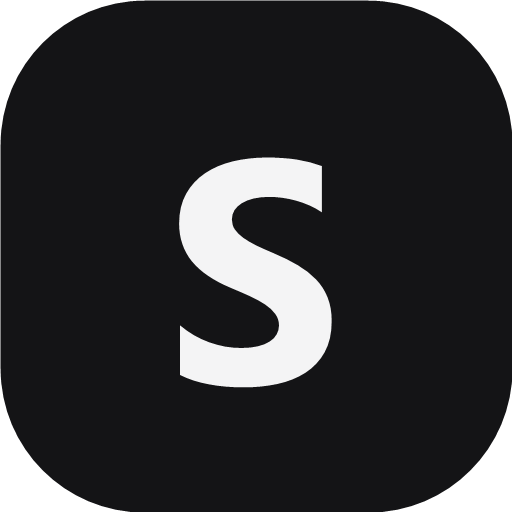
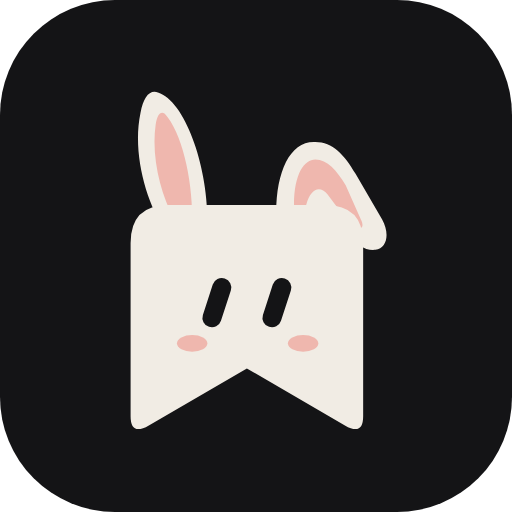
feat(ui): 应用图标换成兔耳书签
- favicon、主屏幕图标（含 iOS 与安卓自适应）换成深底白兔的兔耳书签
- 顶栏和平板侧栏标志改为简化描线版，线宽与导航图标一致；文字隐藏时胶囊回到正圆，图标不再偏左
- 登录 / 兑换码页用实心版，深色白兔带腮红、浅色墨兔
- 分享海报左下角的标志同步更换；图形数据集中在 src/design/brand.ts
- design/icons 存放三版源文件（带底色与透明底）和顶栏描线版

diff --git a/src/app/BrandMark.tsx b/src/app/BrandMark.tsx
@@ -1,6 +1,67 @@
+import { useId } from 'react'
+import { BRAND_BLUSH, BRAND_BLUSH_R, BRAND_BODY, BRAND_EARS, BRAND_EYE, BRAND_EYES, BRAND_INNER, BRAND_PINK } from '@/design/brand'
 import { cn } from '@/lib/cn'
 
-/** 站点标志，顶栏和平板侧栏共用；目前是占位的字母圆标，换图标只改这里 */
+/**
+ * 实心的兔耳书签，用在登录页这类大尺寸处。
+ * 用强调色：深色模式是白兔带腮红，浅色模式是墨兔（对应设计稿 02 / 04）；眼睛挖空透出底色。
+ */
+export function BrandBunny({ className }: { className?: string }) {
+  // 遮罩 id 要唯一，避免和页面上其他实例冲突
+  const mask = `brand-eyes-${useId()}`
+  return (
+    <svg viewBox="26 5 484 484" aria-hidden="true" className={cn('shrink-0 text-solid', className)}>
+      <mask id={mask} maskUnits="userSpaceOnUse" x="0" y="0" width="512" height="512">
+        <rect width="512" height="512" fill="#fff" />
+        {BRAND_EYES.map((e) => (
+          <rect
+            key={e.cx}
+            x={e.cx - BRAND_EYE.w / 2}
+            y={e.cy - BRAND_EYE.h / 2}
+            width={BRAND_EYE.w}
+            height={BRAND_EYE.h}
+            rx={BRAND_EYE.w / 2}
+            transform={`rotate(${BRAND_EYE.tilt} ${e.cx} ${e.cy})`}
+            fill="#000"
+          />
+        ))}
+      </mask>
+      {/* 先耳朵、再耳内粉色，最后身体盖住耳根 */}
+      <path d={BRAND_EARS} fill="currentColor" />
+      <path d={BRAND_INNER} fill={BRAND_PINK} />
+      <path d={BRAND_BODY} fill="currentColor" mask={`url(#${mask})`} />
+      <g fill={BRAND_PINK} className="hidden dark:inline">
+        {BRAND_BLUSH.map((b) => (
+          <ellipse key={b.cx} cx={b.cx} cy={b.cy} rx={BRAND_BLUSH_R.x} ry={BRAND_BLUSH_R.y} />
+        ))}
+      </g>
+    </svg>
+  )
+}
+
+/**
+ * 站点标志，顶栏和平板侧栏共用：兔耳书签的简化描线版，线宽和导航里的其他图标一致，颜色跟随文字。
+ * 图形在 24 格里按外框居中；完整的彩色图标见 public/favicon.svg 和 design/icons。
+ */
 export function BrandMark({ className }: { className?: string }) {
-  return <span className={cn('grid size-10 place-items-center rounded-full bg-solid text-on-solid', className)}>S</span>
+  return (
+    <span className={cn('grid size-10 shrink-0 place-items-center', className)}>
+      <svg
+        viewBox="0 0 24 24"
+        aria-hidden="true"
+        className="size-7"
+        fill="none"
+        stroke="currentColor"
+        strokeWidth={1.8}
+        strokeLinecap="round"
+        strokeLinejoin="round"
+      >
+        {/* 竖耳、垂耳、书签身体、两只斜眼 */}
+        <path d="M7.5 9.1C6.6 6.6 6.3 4 7.2 3.3C8.4 2.5 9.6 5 9.8 9.1" />
+        <path d="M12.6 9.1C12.8 6.3 14.2 4.7 15.8 4.9C17.4 5.1 18.9 7.2 19 8.6C19.1 9.6 18.2 9.9 17 9.4" />
+        <path d="M5 11.1a2 2 0 0 1 2-2h8a2 2 0 0 1 2 2V21l-6-3.4L5 21Z" />
+        <path d="M9.4 13 8.8 15.1M13.4 13 12.8 15.1" />
+      </svg>
+    </span>
+  )
 }

diff --git a/src/features/gallery/posterDraw.ts b/src/features/gallery/posterDraw.ts
@@ -1,4 +1,5 @@
 import { refreshAccessToken, tokenExpiring, useAuth } from '@/api/auth'
+import { BRAND_BLUSH, BRAND_BLUSH_R, BRAND_BODY, BRAND_CENTER, BRAND_DARK, BRAND_EARS, BRAND_EYE, BRAND_EYES, BRAND_INNER, BRAND_LIGHT, BRAND_PINK } from '@/design/brand'
 import { NEUTRAL, coverColor, rgbCss } from '@/lib/coverColor'
 import { count } from '@/lib/format'
 import type { Rgb } from '@/lib/palette'
@@ -96,24 +97,56 @@ function cover(ctx: Ctx, imgs: Images, c: PosterCover, x: number, y: number, w: 
   ctx.restore()
 }
 
-/** 左下角（或居中）的应用标志：圆角方块里一个 S，和 favicon 一致 */
+/** 左下角（或居中）的应用标志：圆角方块里的兔耳书签，和 favicon 一致 */
 function brand(ctx: Ctx, x: number, y: number, center = false) {
   setFont(ctx, 700, 28)
   const total = 52 + 16 + ctx.measureText('Sukimi').width
   const sx = center ? x - total / 2 : x
   ctx.beginPath()
   ctx.roundRect(sx, y, 52, 52, 15)
-  ctx.fillStyle = '#141416'
+  ctx.fillStyle = BRAND_DARK
   ctx.fill()
   ctx.beginPath()
   ctx.roundRect(sx + 0.5, y + 0.5, 51, 51, 14.5)
   ctx.strokeStyle = ink(0.14)
   ctx.lineWidth = 1
   ctx.stroke()
-  setFont(ctx, 700, 30)
-  text(ctx, 'S', sx + 26, y + 27, INK, 'center', 'middle')
+  brandGlyph(ctx, sx, y, 52)
   setFont(ctx, 700, 28)
   text(ctx, 'Sukimi', sx + 68, y + 27, INK, 'left', 'middle')
+}
+
+/** 在 size 见方的格子里画兔耳书签（与 public/favicon.svg 同样的位置和缩放） */
+function brandGlyph(ctx: Ctx, x: number, y: number, size: number) {
+  ctx.save()
+  ctx.translate(x, y)
+  ctx.scale(size / 512, size / 512)
+  ctx.translate(256, 262)
+  ctx.scale(0.76, 0.76)
+  ctx.translate(-BRAND_CENTER.x, -BRAND_CENTER.y)
+  ctx.fillStyle = BRAND_LIGHT
+  ctx.fill(new Path2D(BRAND_EARS))
+  ctx.fillStyle = BRAND_PINK
+  ctx.fill(new Path2D(BRAND_INNER))
+  ctx.fillStyle = BRAND_LIGHT
+  ctx.fill(new Path2D(BRAND_BODY))
+  ctx.fillStyle = BRAND_DARK
+  for (const e of BRAND_EYES) {
+    ctx.save()
+    ctx.translate(e.cx, e.cy)
+    ctx.rotate(BRAND_EYE.tilt * RAD)
+    ctx.beginPath()
+    ctx.roundRect(-BRAND_EYE.w / 2, -BRAND_EYE.h / 2, BRAND_EYE.w, BRAND_EYE.h, BRAND_EYE.w / 2)
+    ctx.fill()
+    ctx.restore()
+  }
+  ctx.fillStyle = BRAND_PINK
+  for (const b of BRAND_BLUSH) {
+    ctx.beginPath()
+    ctx.ellipse(b.cx, b.cy, BRAND_BLUSH_R.x, BRAND_BLUSH_R.y, 0, 0, Math.PI * 2)
+    ctx.fill()
+  }
+  ctx.restore()
 }
 
 /** 从圆心往外的一根圆头竖条：deg 从正上方顺时针，r0 是内端半径 */

diff --git a/src/design/brand.ts b/src/design/brand.ts
@@ -1,0 +1,28 @@
+/*
+ * 应用标志「兔耳书签」的图形数据（512 坐标），登录页的实心标志和分享海报用；顶栏是另画的简化描线版（都在 app/BrandMark.tsx）。
+ * public/ 里的 favicon 和 PNG 图标、design/icons 里的源文件是同一套图形；改形状时一起重新导出。
+ */
+
+export const BRAND_EARS =
+  'M149 207C123 168 105 103 116 51c4-21 12-31 23-27 36 11 67 100 65 174Zm146-13c-3-59 15-105 49-105 24-1 40 16 55 42l35 60c10 18 7 38-9 40-24 3-48-31-70-59-8 14-10 31-9 46Z'
+export const BRAND_BODY = 'M103 222q0-50 50-50h206q50 0 50 50v228q0 26-24 12l-129-75-129 75q-24 14-24-12Z'
+/** 耳朵内侧的粉色 */
+export const BRAND_INNER =
+  'M160 190C142 156 130 108 136 66C138 54 142 48 148 52C170 76 184 136 184 188ZM318 172C318 130 332 112 346 112C362 112 374 126 386 146L406 191C410 199 408 204 403 202C392 198 378 180 362 158C352 146 340 150 334 172Z'
+/** 两只胶囊眼的中心；眼睛 25 × 67，向右斜 18° */
+export const BRAND_EYES = [
+  { cx: 216.5, cy: 300.5 },
+  { cx: 295.5, cy: 300.5 },
+] as const
+export const BRAND_EYE = { w: 25, h: 67, tilt: 18 }
+export const BRAND_BLUSH = [
+  { cx: 184, cy: 354 },
+  { cx: 330, cy: 354 },
+] as const
+export const BRAND_BLUSH_R = { x: 20, y: 11 }
+/** 图形本身的中心，放进方块时以它对齐 */
+export const BRAND_CENTER = { x: 268, y: 247 }
+
+export const BRAND_LIGHT = '#F1ECE4'
+export const BRAND_DARK = '#141416'
+export const BRAND_PINK = '#EFB7AE'

diff --git a/src/app/TopNav.tsx b/src/app/TopNav.tsx
@@ -64,11 +64,12 @@ export function TopNav() {
             <ChevronLeft className={cn('size-6', leadIn)} strokeWidth={1.8} />
           </Glass>
         ) : (
-          // 顶栏本身透明，标志也放进玻璃胶囊里，滚到内容上方时才看得清；平板的标志在左侧导航栏
+          // 顶栏本身透明，标志也放进玻璃胶囊里，滚到内容上方时才看得清；平板的标志在左侧导航栏。
+          // 右侧留白放在文字上：文字隐藏的宽度下胶囊回到正圆，图标不偏左
           <NavLink to="/" aria-label="Sukimi 首页" className="topnav-brand rounded-full text-text no-underline justify-self-start">
-            <Glass as="span" data-vt-glass="topnav-brand" className="flex items-center gap-2.5 rounded-full p-[5px] text-[17px] font-bold sm:pr-4">
+            <Glass as="span" data-vt-glass="topnav-brand" className="flex items-center gap-1.5 rounded-full p-[5px] text-[17px] font-bold">
               <BrandMark className={leadIn} />
-              <span className={cn('max-sm:hidden md:max-xl:hidden', leadIn)}>Sukimi</span>
+              <span className={cn('pr-[11px] max-sm:hidden md:max-xl:hidden', leadIn)}>Sukimi</span>
             </Glass>
           </NavLink>
         )}

diff --git a/src/features/auth/AuthLayout.tsx b/src/features/auth/AuthLayout.tsx
@@ -1,5 +1,6 @@
 import type { FormEvent, InputHTMLAttributes, ReactNode } from 'react'
 import { Glass } from '@/components/glass/Glass'
+import { BrandBunny } from '@/app/BrandMark'
 import { PreviewBadge } from '@/app/PreviewBadge'
 import { useApplyAppearance } from '@/design/settings'
 
@@ -41,7 +42,7 @@ export function AuthLayout({
       />
 
       <form onSubmit={onSubmit} className="flex w-full max-w-[360px] flex-col items-center">
-        <span className="grid size-14 place-items-center rounded-[16px] bg-solid text-2xl font-bold text-on-solid">S</span>
+        <BrandBunny className="size-[72px]" />
         <h1 className="mt-6 mb-1 text-[28px] font-bold">{title}</h1>
         <p className="m-0 text-center text-muted num">{subtitle ?? ' '}</p>
         {children}
